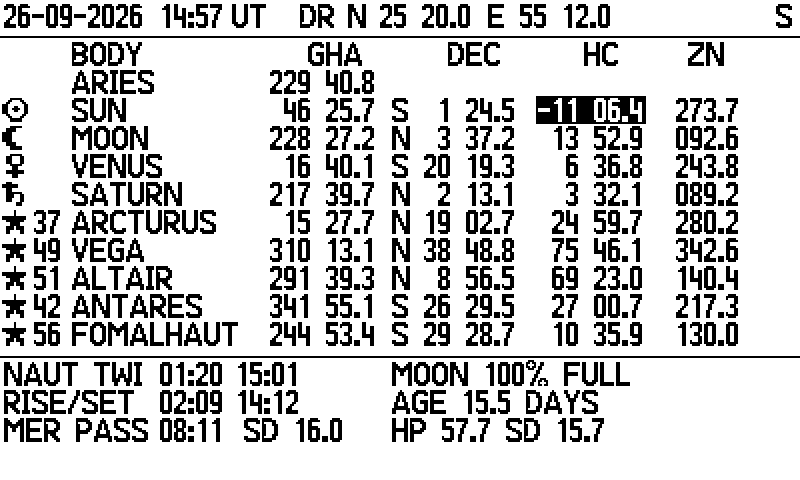
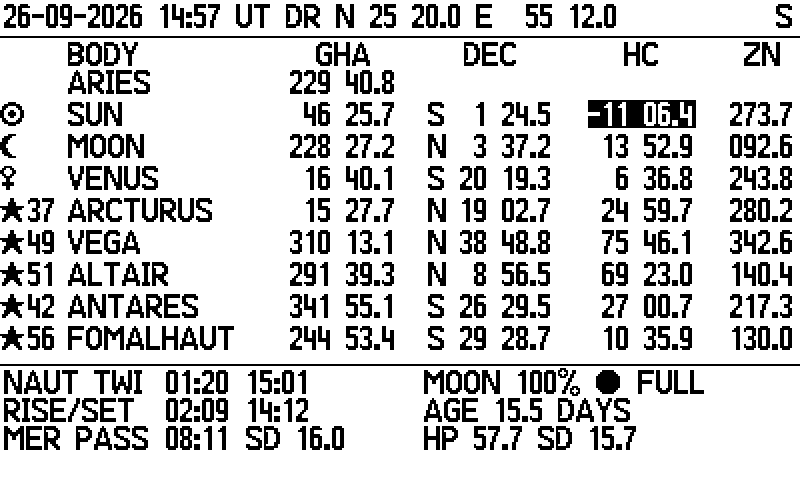
docs/free42: Free42 screens regenerated (NAVLITTLE T21 style, '%' fixed, SKY first name)
free42_shots.py: SKY is filmed (a capture every 0.25 s) and the shot is the second steady screen,
the first name next to its body (the name changes every 1 s; a fixed 3.5 s delay could land on any
name or during a change). F42_sky.png matches the C47 sim SKY frame with the first name.

diff --git a/tools/generators/free42_shots.py b/tools/generators/free42_shots.py
@@ -22,6 +22,18 @@ def png(pbm, dst):
     im.resize((800, 480), Image.NEAREST).save(dst)
 
 
+def still(t, prefix, n):
+    """The n-th steady screen of a film (a capture every 0.25 s): a capture the next one repeats.
+    SKY: 0 = drawn, no name yet; 1 = the first name (the name changes every 1 s)."""
+    fs = sorted((f for f in os.listdir(t) if f.startswith(prefix + '_')), key=lambda f: int(f[len(prefix) + 1:-4]))
+    data = [open(os.path.join(t, f)).read() for f in fs]
+    found = []
+    for k in range(len(data) - 1):
+        if data[k] == data[k + 1] and (not found or data[found[-1]] != data[k]):
+            found.append(k)
+    return os.path.join(t, fs[found[n]]) if len(found) > n else None
+
+
 def main():
     os.makedirs(OUT, exist_ok=True)
     t = tempfile.mkdtemp()
@@ -29,9 +41,12 @@ def main():
            'xeq INIT', 'xeq NAV', 'num 2026.0926', 'num 14.57', 'num 25.20', 'num 55.12', 'shot %s/v0.pbm' % t]
     for v in (1, 2, 3, 5, 7, 8):
         cmd += ['key %d' % KEY[v], 'shot %s/v%d.pbm' % (t, v), 'key 37']
-    cmd += ['qkey 37 3500 %s/v4.pbm' % t, 'key 24']                  # SKY: the name line changes every 3 s
+    cmd += ['film %s/s' % t, 'qkey 37 4000', 'key 24', 'stopfilm']   # SKY: the name line changes every 1 s
     cmd += ['film %s/a' % t, 'key 26', 'stopfilm', 'shot %s/v6.pbm' % t, 'key 37']
     subprocess.run([F42], input='\n'.join(cmd) + '\n', text=True, capture_output=True, timeout=300)
+    sky = still(t, 's', 1)
+    if sky:
+        os.replace(sky, '%s/v4.pbm' % t)
     for v, n in NAMES.items():
         if os.path.exists('%s/v%d.pbm' % (t, v)):
             png('%s/v%d.pbm' % (t, v), os.path.join(OUT, 'F42_%s.png' % n))
@@ -43,7 +58,7 @@ def main():
     fs = sorted((f for f in os.listdir(t) if f.startswith('b_')), key=lambda f: int(f[2:-4]))
     if fs:
         png(os.path.join(t, fs[len(fs) // 2]), os.path.join(OUT, 'F42_box_ants.png'))
-    # NAVLITTLE: the ALMANAC screen with the 5 x 7 font, Sun and stars only
+    # NAVLITTLE: the ALMANAC screen (T21 style), Sun and stars, the Moon line with the phase glyph
     cmd = ['paste %s/build/free42/NAVINIT_LITTLE.txt' % ROOT, 'paste %s/build/free42/NAVLITTLE.txt' % ROOT,
            'xeq INIT', 'xeq NAV', 'num 2026.0926', 'num 14.57', 'num 25.20', 'num 55.12', 'shot %s/l.pbm' % t]
     subprocess.run([F42], input='\n'.join(cmd) + '\n', text=True, capture_output=True, timeout=300)
